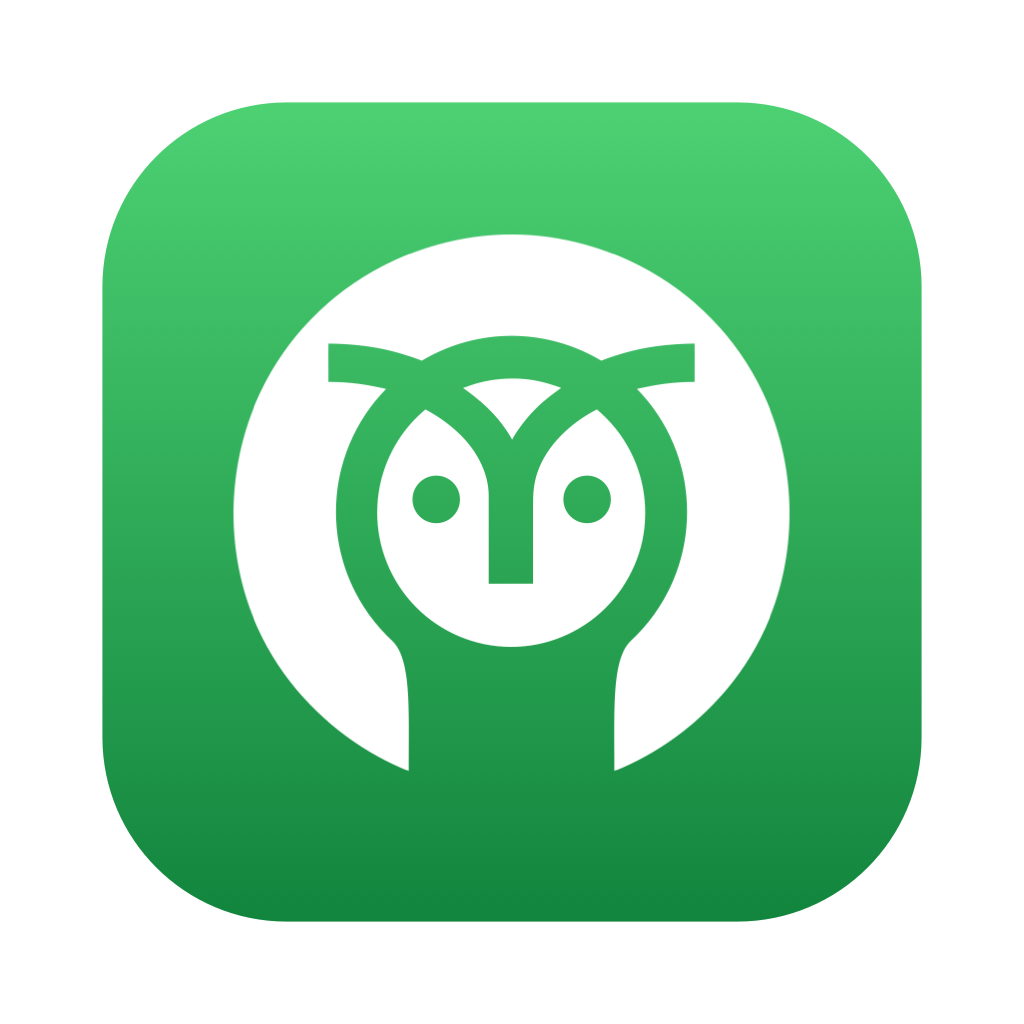
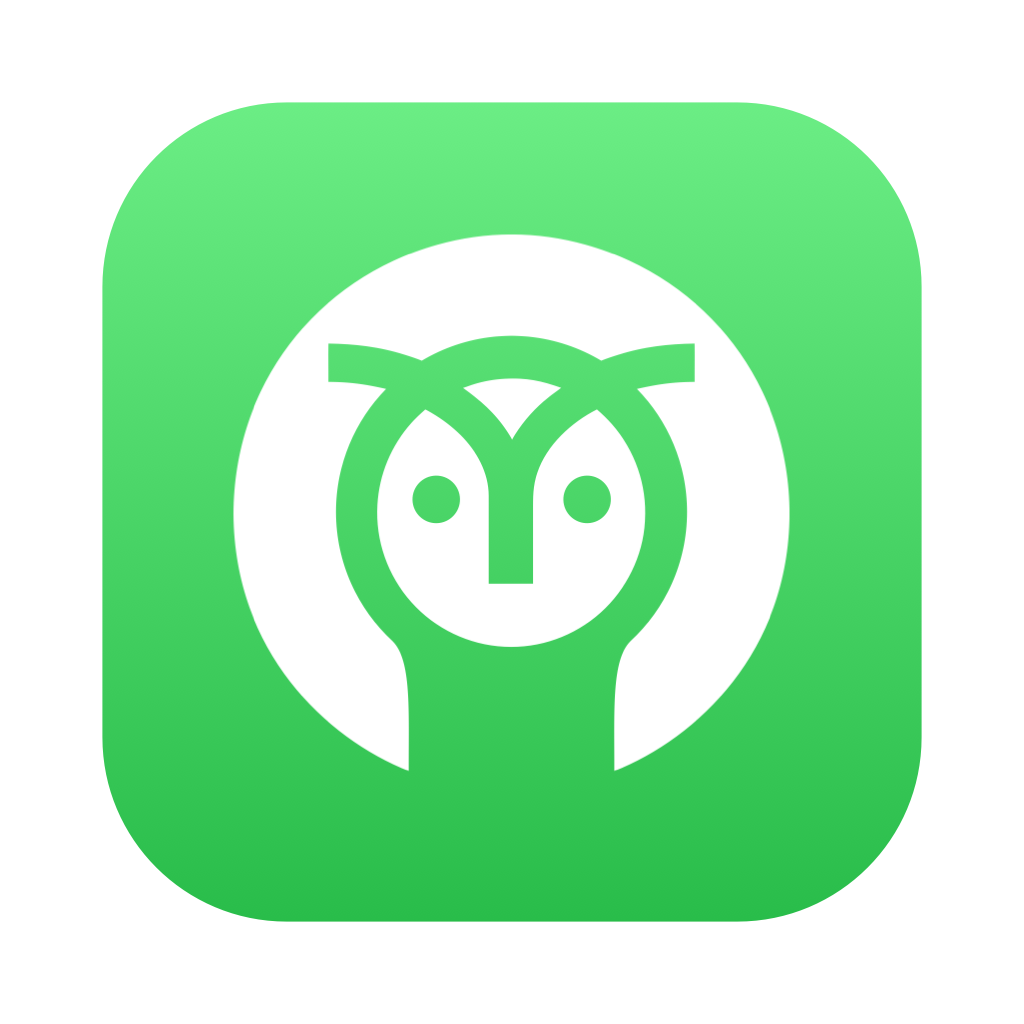
Dev build: owl on #3FE35D green

diff --git a/app/assets/make-icons.swift b/app/assets/make-icons.swift
@@ -1,7 +1,7 @@
 // Renders the Quorum app icon (blue gradient tile, white outlined owl mark) and the avatar mark (the same mark filled
 // with the gradient, for dark backgrounds).
 // usage: swiftc make-icons.swift -o make-icons && ./make-icons quorum-outlined.svg <out-dir> [dev]
-// with `dev`, writes only icon-dev.png and quorum-mark-dev.png: the same art on green, so the dev copy never looks like the real app
+// with `dev`, writes only icon-dev.png and quorum-mark-dev.png: the same art on dev green (#3FE35D), so the dev copy never looks like the real app
 import AppKit
 
 let args = CommandLine.arguments
@@ -9,8 +9,8 @@ let mark = NSImage(data: try! Data(contentsOf: URL(fileURLWithPath: args[1])))!
 let outDir = URL(fileURLWithPath: args[2])
 let dev = args.count > 3 && args[3] == "dev"
 // brand #007AFF: lighter above, deeper below
-let top = dev ? NSColor(srgbRed: 0.3, green: 0.82, blue: 0.45, alpha: 1) : NSColor(srgbRed: 0.2, green: 0.6, blue: 1, alpha: 1)
-let bottom = dev ? NSColor(srgbRed: 0.07, green: 0.52, blue: 0.24, alpha: 1) : NSColor(srgbRed: 0, green: 0.4, blue: 0.85, alpha: 1)
+let top = dev ? NSColor(srgbRed: 0.42, green: 0.93, blue: 0.52, alpha: 1) : NSColor(srgbRed: 0.2, green: 0.6, blue: 1, alpha: 1)
+let bottom = dev ? NSColor(srgbRed: 0.16, green: 0.74, blue: 0.29, alpha: 1) : NSColor(srgbRed: 0, green: 0.4, blue: 0.85, alpha: 1)
 
 func bitmap(_ px: Int, _ draw: (CGFloat) -> Void) -> NSBitmapImageRep {
     let rep = NSBitmapImageRep(bitmapDataPlanes: nil, pixelsWide: px, pixelsHigh: px, bitsPerSample: 8, samplesPerPixel: 4, hasAlpha: true, isPlanar: false, colorSpaceName: .deviceRGB, bytesPerRow: 0, bitsPerPixel: 0)!
